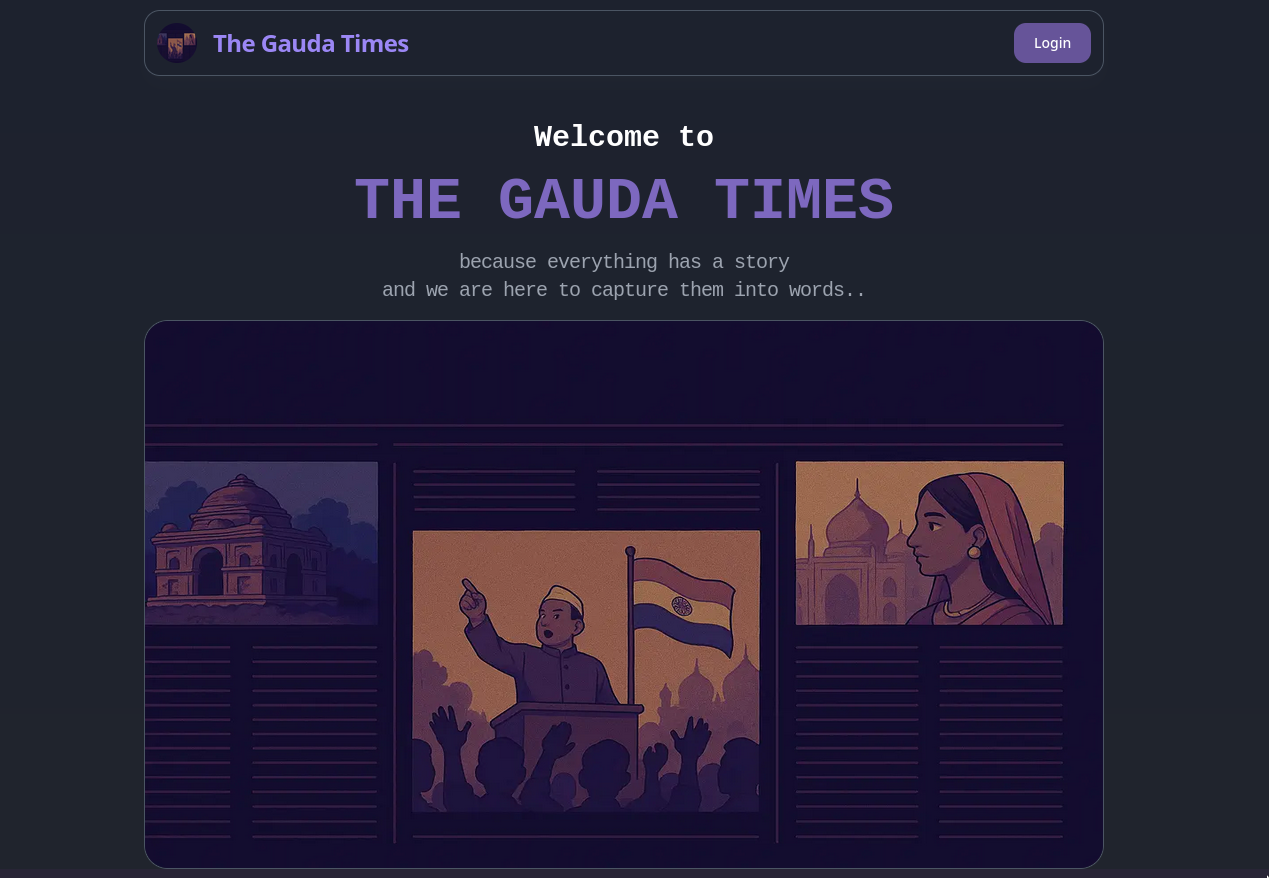
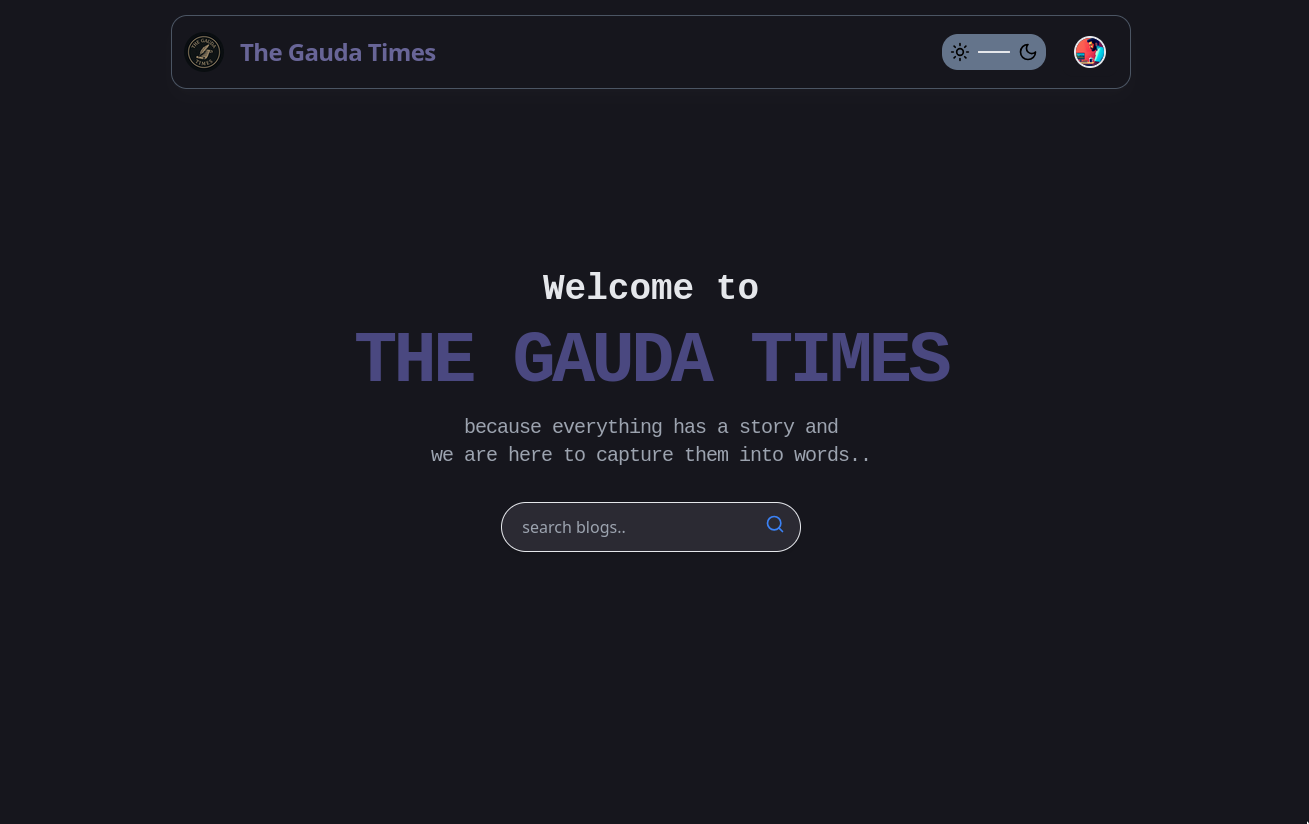
search result css fix

Changed region(s): [[0.0, 0.3944, 1.0, 1.0], [0.2766, 0.1214, 0.7069, 0.3641], [0.1229, 0.0, 0.8605, 0.091]]

diff --git a/apps/web/components/SearchBar.tsx b/apps/web/components/SearchBar.tsx
@@ -1,5 +1,4 @@
 "use client";
-
 import React, { useState, useCallback, useEffect } from 'react'
 import { Search } from 'lucide-react'
 
@@ -65,59 +64,61 @@ const GoogleSearchBar = () => {
     setSearchTerm(e.target.value)
   }
 
-  // Todo for you: Add the below code to the GoogleSearchBar component:
+  const handleSubmit = (e) => {
+    e.preventDefault()
+  }
+
   return (
-    <div className="flex h-auto flex-col items-cente p-4">
-      <form
-        onSubmit={(e) => e.preventDefault()}
-        className="mb-8 w-full max-w-2xl"
-      >
-        <div className="relative">
-          <input
-            type="text"
-            value={searchTerm}
-            onChange={handleInputChange}
-            className="w-full rounded-full border border-gray-200 px-5 py-3 pr-20 text-base shadow-md transition-shadow duration-200 hover:shadow-lg focus:border-gray-300 focus:outline-none"
-            placeholder="search blogs.."
-          />
-          <div className="absolute right-0 top-0 mr-4 mt-3 flex items-center">
-            <button
-              type="button"
-              className="mr-3 text-gray-400 hover:text-gray-600"
-              onClick={() =>
-                alert(
-                  'Voice search is unsupported in this demo.\nTry implementing this feature yourself 🙂',
-                )
-              }
-            >
-            </button>{' '}
-            <button type="submit" className="text-blue-500 hover:text-blue-600">
-              <Search size={20} />{' '}
-            </button>{' '}
-          </div>{' '}
-        </div>{' '}
-      </form>{' '}
-      {searchResults.length > 0 && (
-        <div className="w-full max-w-2xl rounded-lg bg-[#1C1C1C] text-white p-4 shadow-md">
-          <h2 className="mb-4 text-xl font-bold"> Search Results: </h2>{' '}
-          <ul>
-            {' '}
-            {searchResults.map((result) => (
-              <li key={result.id} className="mb-2">
-                <a
-                  href={result.url}
-                  className="text-blue-600 hover:underline"
-                  target="_blank"
-                  rel="noopener noreferrer"
-                >
-                  {' '}
-                  {result.title}{' '}
-                </a>{' '}
-              </li>
-            ))}{' '}
-          </ul>{' '}
+    <div className="flex h-auto flex-col items-center p-4">
+      <div className="relative w-full max-w-2xl mb-8">
+        <div onSubmit={handleSubmit} className="w-full">
+          <div className="relative">
+            <input
+              type="text"
+              value={searchTerm}
+              onChange={handleInputChange}
+              className="w-full rounded-full border border-gray-200 px-5 py-3 pr-20 text-base shadow-md transition-shadow duration-200 hover:shadow-lg focus:border-gray-300 focus:outline-none"
+              placeholder="search blogs.."
+            />
+            <div className="absolute right-0 top-0 mr-4 mt-3 flex items-center">
+              <button
+                type="button"
+                className="mr-3 text-gray-400 hover:text-gray-600"
+                onClick={() =>
+                  alert(
+                    'Voice search is unsupported in this demo.\nTry implementing this feature yourself 🙂',
+                  )
+                }
+              >
+              </button>
+              <button type="button" className="text-blue-500 hover:text-blue-600">
+                <Search size={20} />
+              </button>
+            </div>
+          </div>
         </div>
-      )}{' '}
+
+        {/* Search Results Overlay */}
+        {searchResults.length > 0 && (
+          <div className="absolute top-full left-0 right-0 mt-2 rounded-lg bg-[#1C1C1C] text-white p-4 shadow-lg z-50 max-h-96 overflow-y-auto">
+            <h2 className="mb-4 text-xl font-bold">Search Results:</h2>
+            <ul>
+              {searchResults.map((result) => (
+                <li key={result.id} className="mb-2">
+                  <a
+                    href={result.url}
+                    className="text-blue-400 hover:text-blue-300 hover:underline block py-1"
+                    target="_blank"
+                    rel="noopener noreferrer"
+                  >
+                    {result.title}
+                  </a>
+                </li>
+              ))}
+            </ul>
+          </div>
+        )}
+      </div>
     </div>
   )
 }
